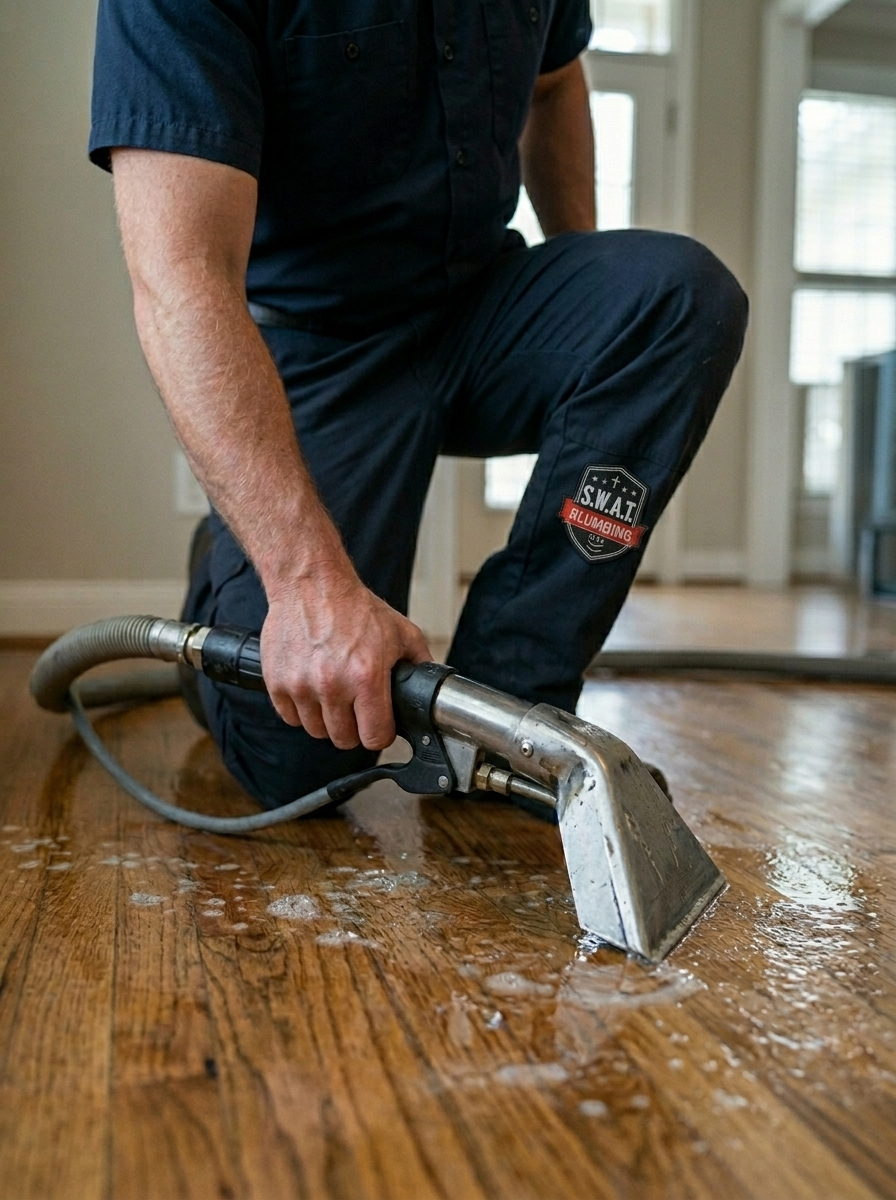
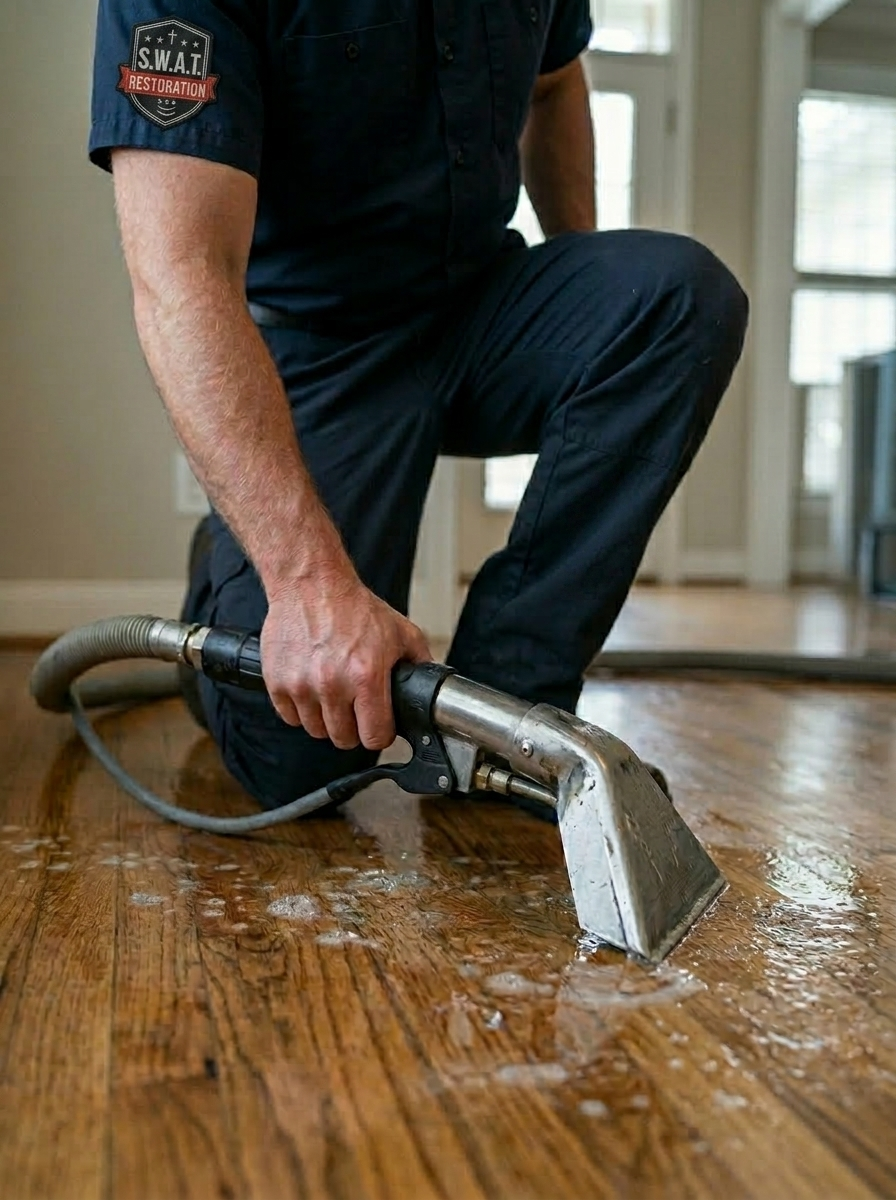
fix on site image with messed up patch

Changed region(s): [[0.125, 0.0, 0.25, 0.1233], [0.625, 0.37, 0.7188, 0.4625], [0.8438, 0.74, 0.9062, 0.8017]]

diff --git a/components/sections/team-fleet.tsx b/components/sections/team-fleet.tsx
@@ -19,6 +19,8 @@ type PhotoSlot = {
   span: "lg:col-span-2" | "lg:col-span-1"
   /** Featured: gets the "Hero Shot" tag */
   featured?: boolean
+  /** CSS object-position override (e.g. "center top", "50% 20%") */
+  objectPosition?: string
 }
 
 const slots: PhotoSlot[] = [
@@ -40,9 +42,10 @@ const slots: PhotoSlot[] = [
   {
     label: "On Site",
     caption: "Water extraction in progress — every minute matters to stop secondary damage.",
-    img: "/atwork.jpeg",
+    img: "/atwork1.jpeg",
     aspect: "4/5",
     span: "lg:col-span-1",
+    objectPosition: "center top",
   },
   {
     label: "Dispatch Center",
@@ -121,6 +124,7 @@ function PhotoCard({ slot }: { slot: PhotoSlot }) {
               ? "(min-width: 1024px) 66vw, 100vw"
               : "(min-width: 1024px) 33vw, 100vw"
           }
+          style={slot.objectPosition ? { objectPosition: slot.objectPosition } : undefined}
           className="object-cover transition-transform duration-500 group-hover:scale-[1.02]"
         />
 